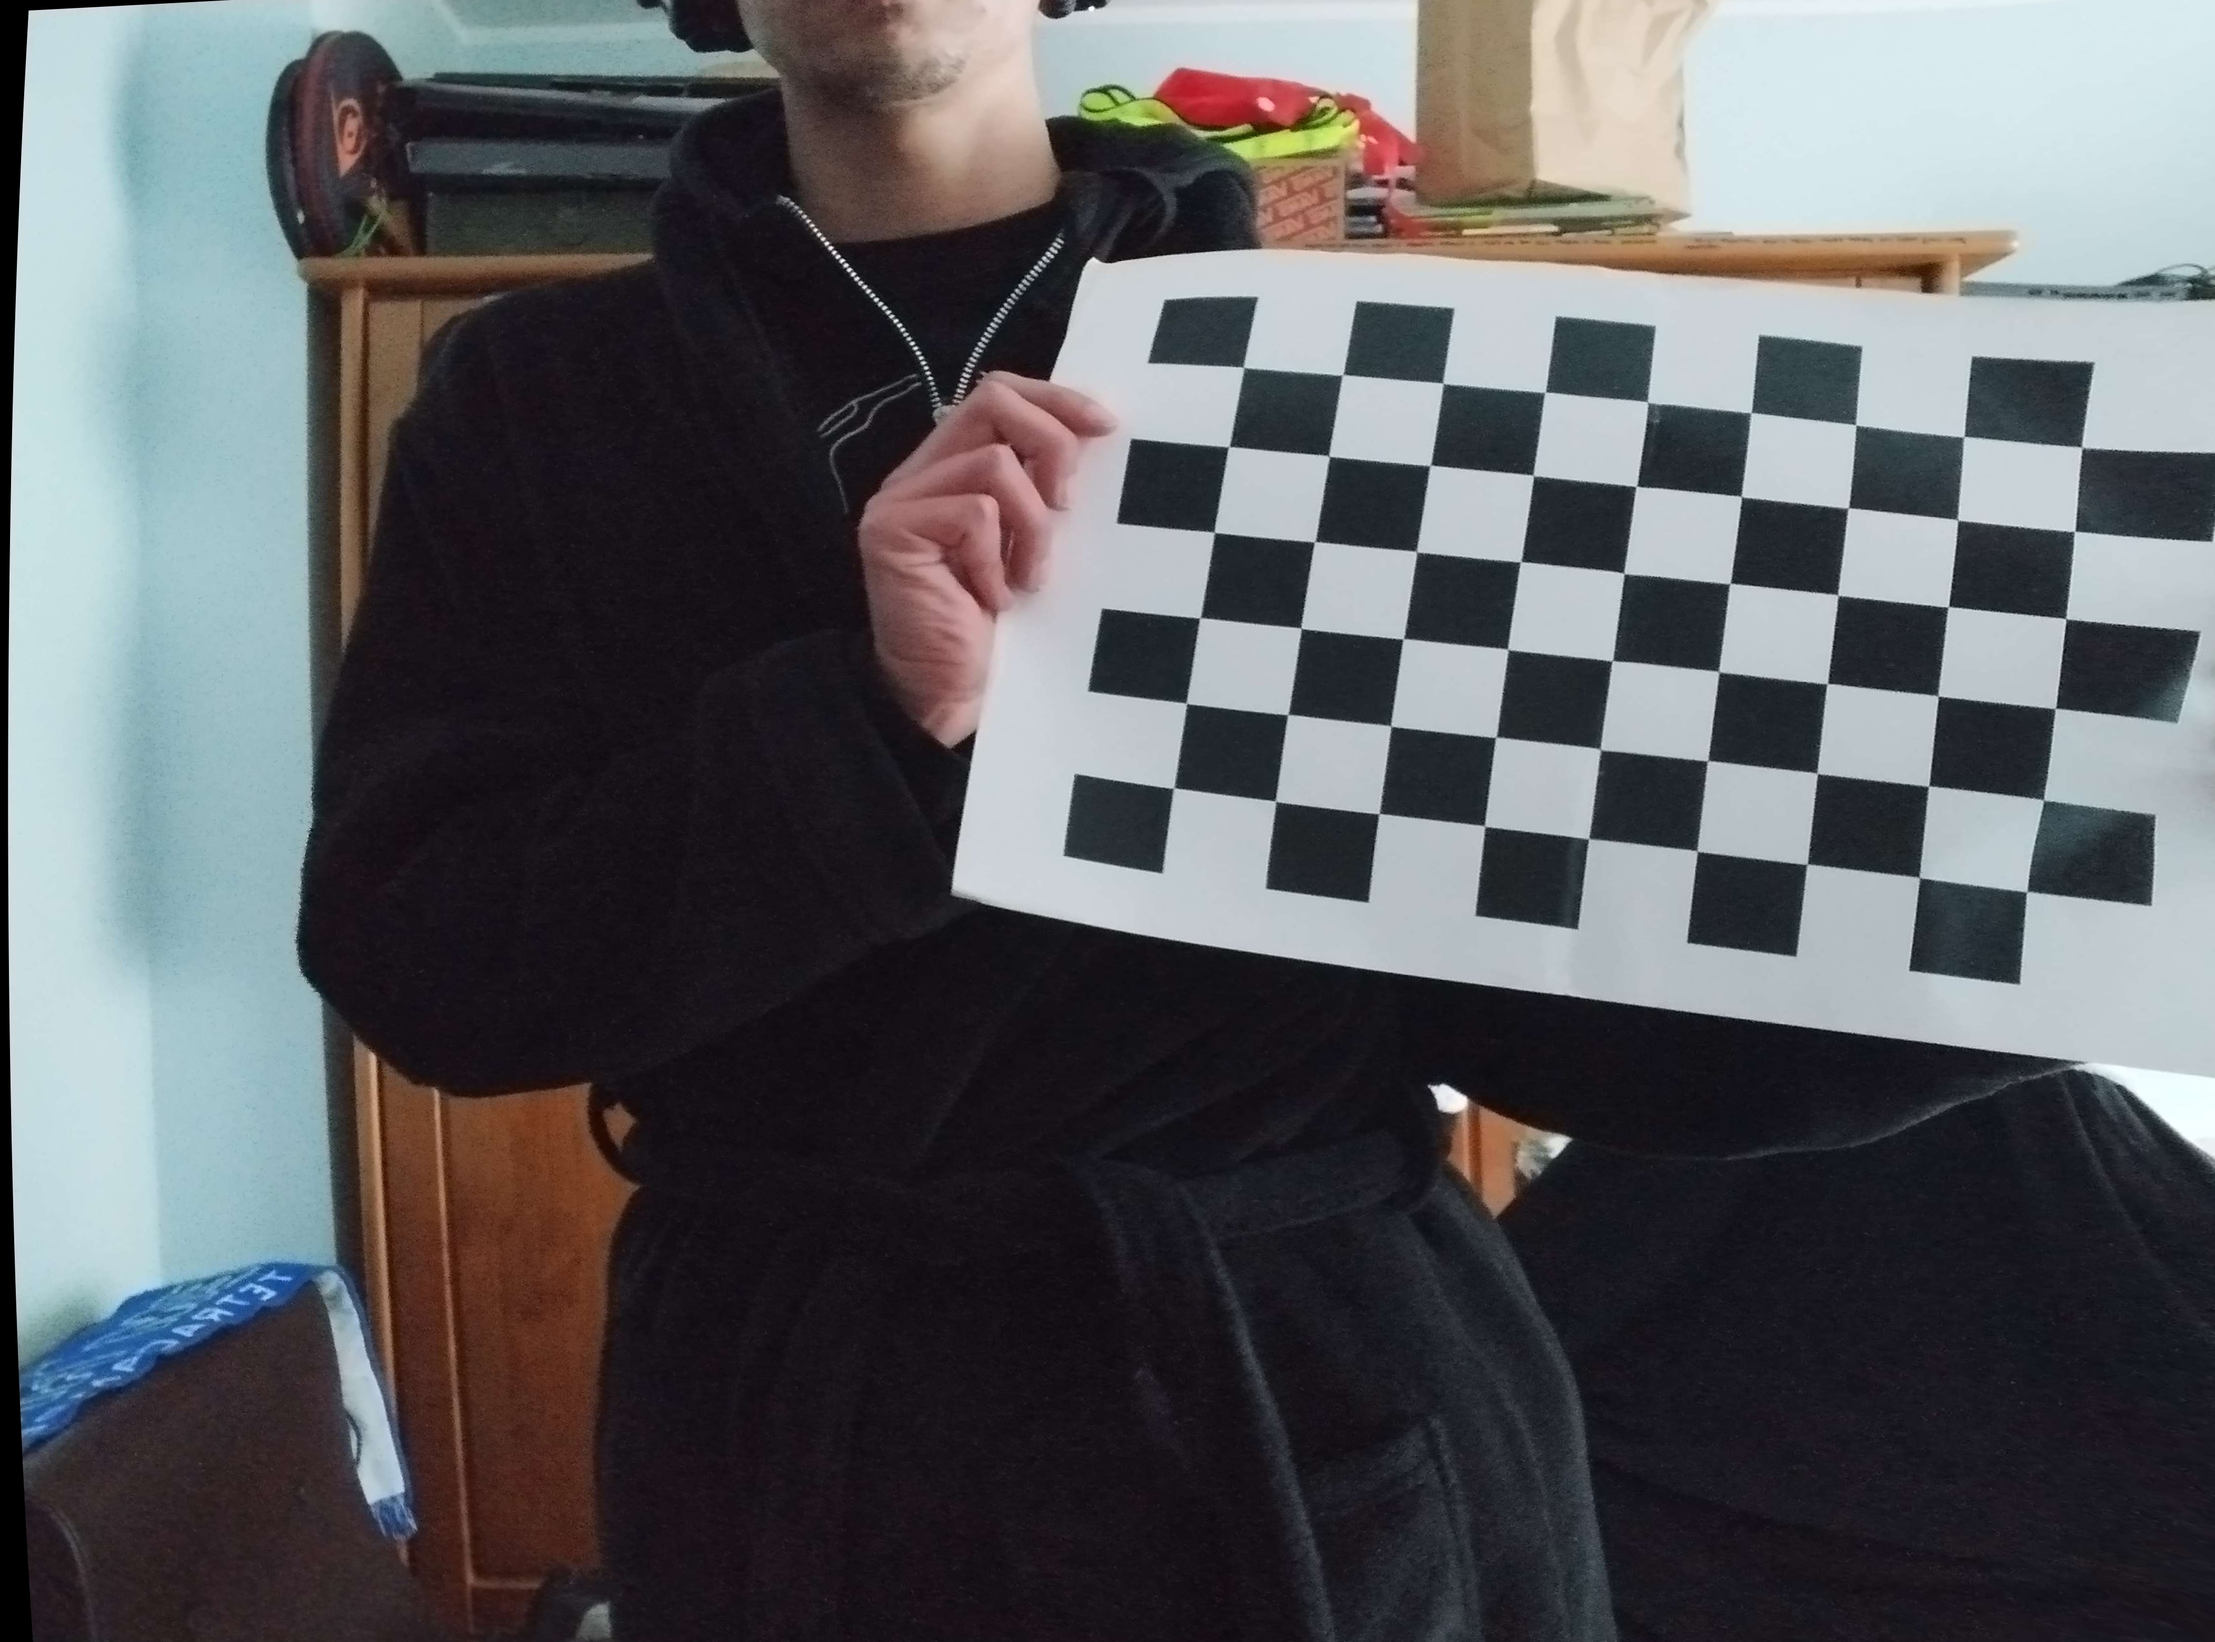
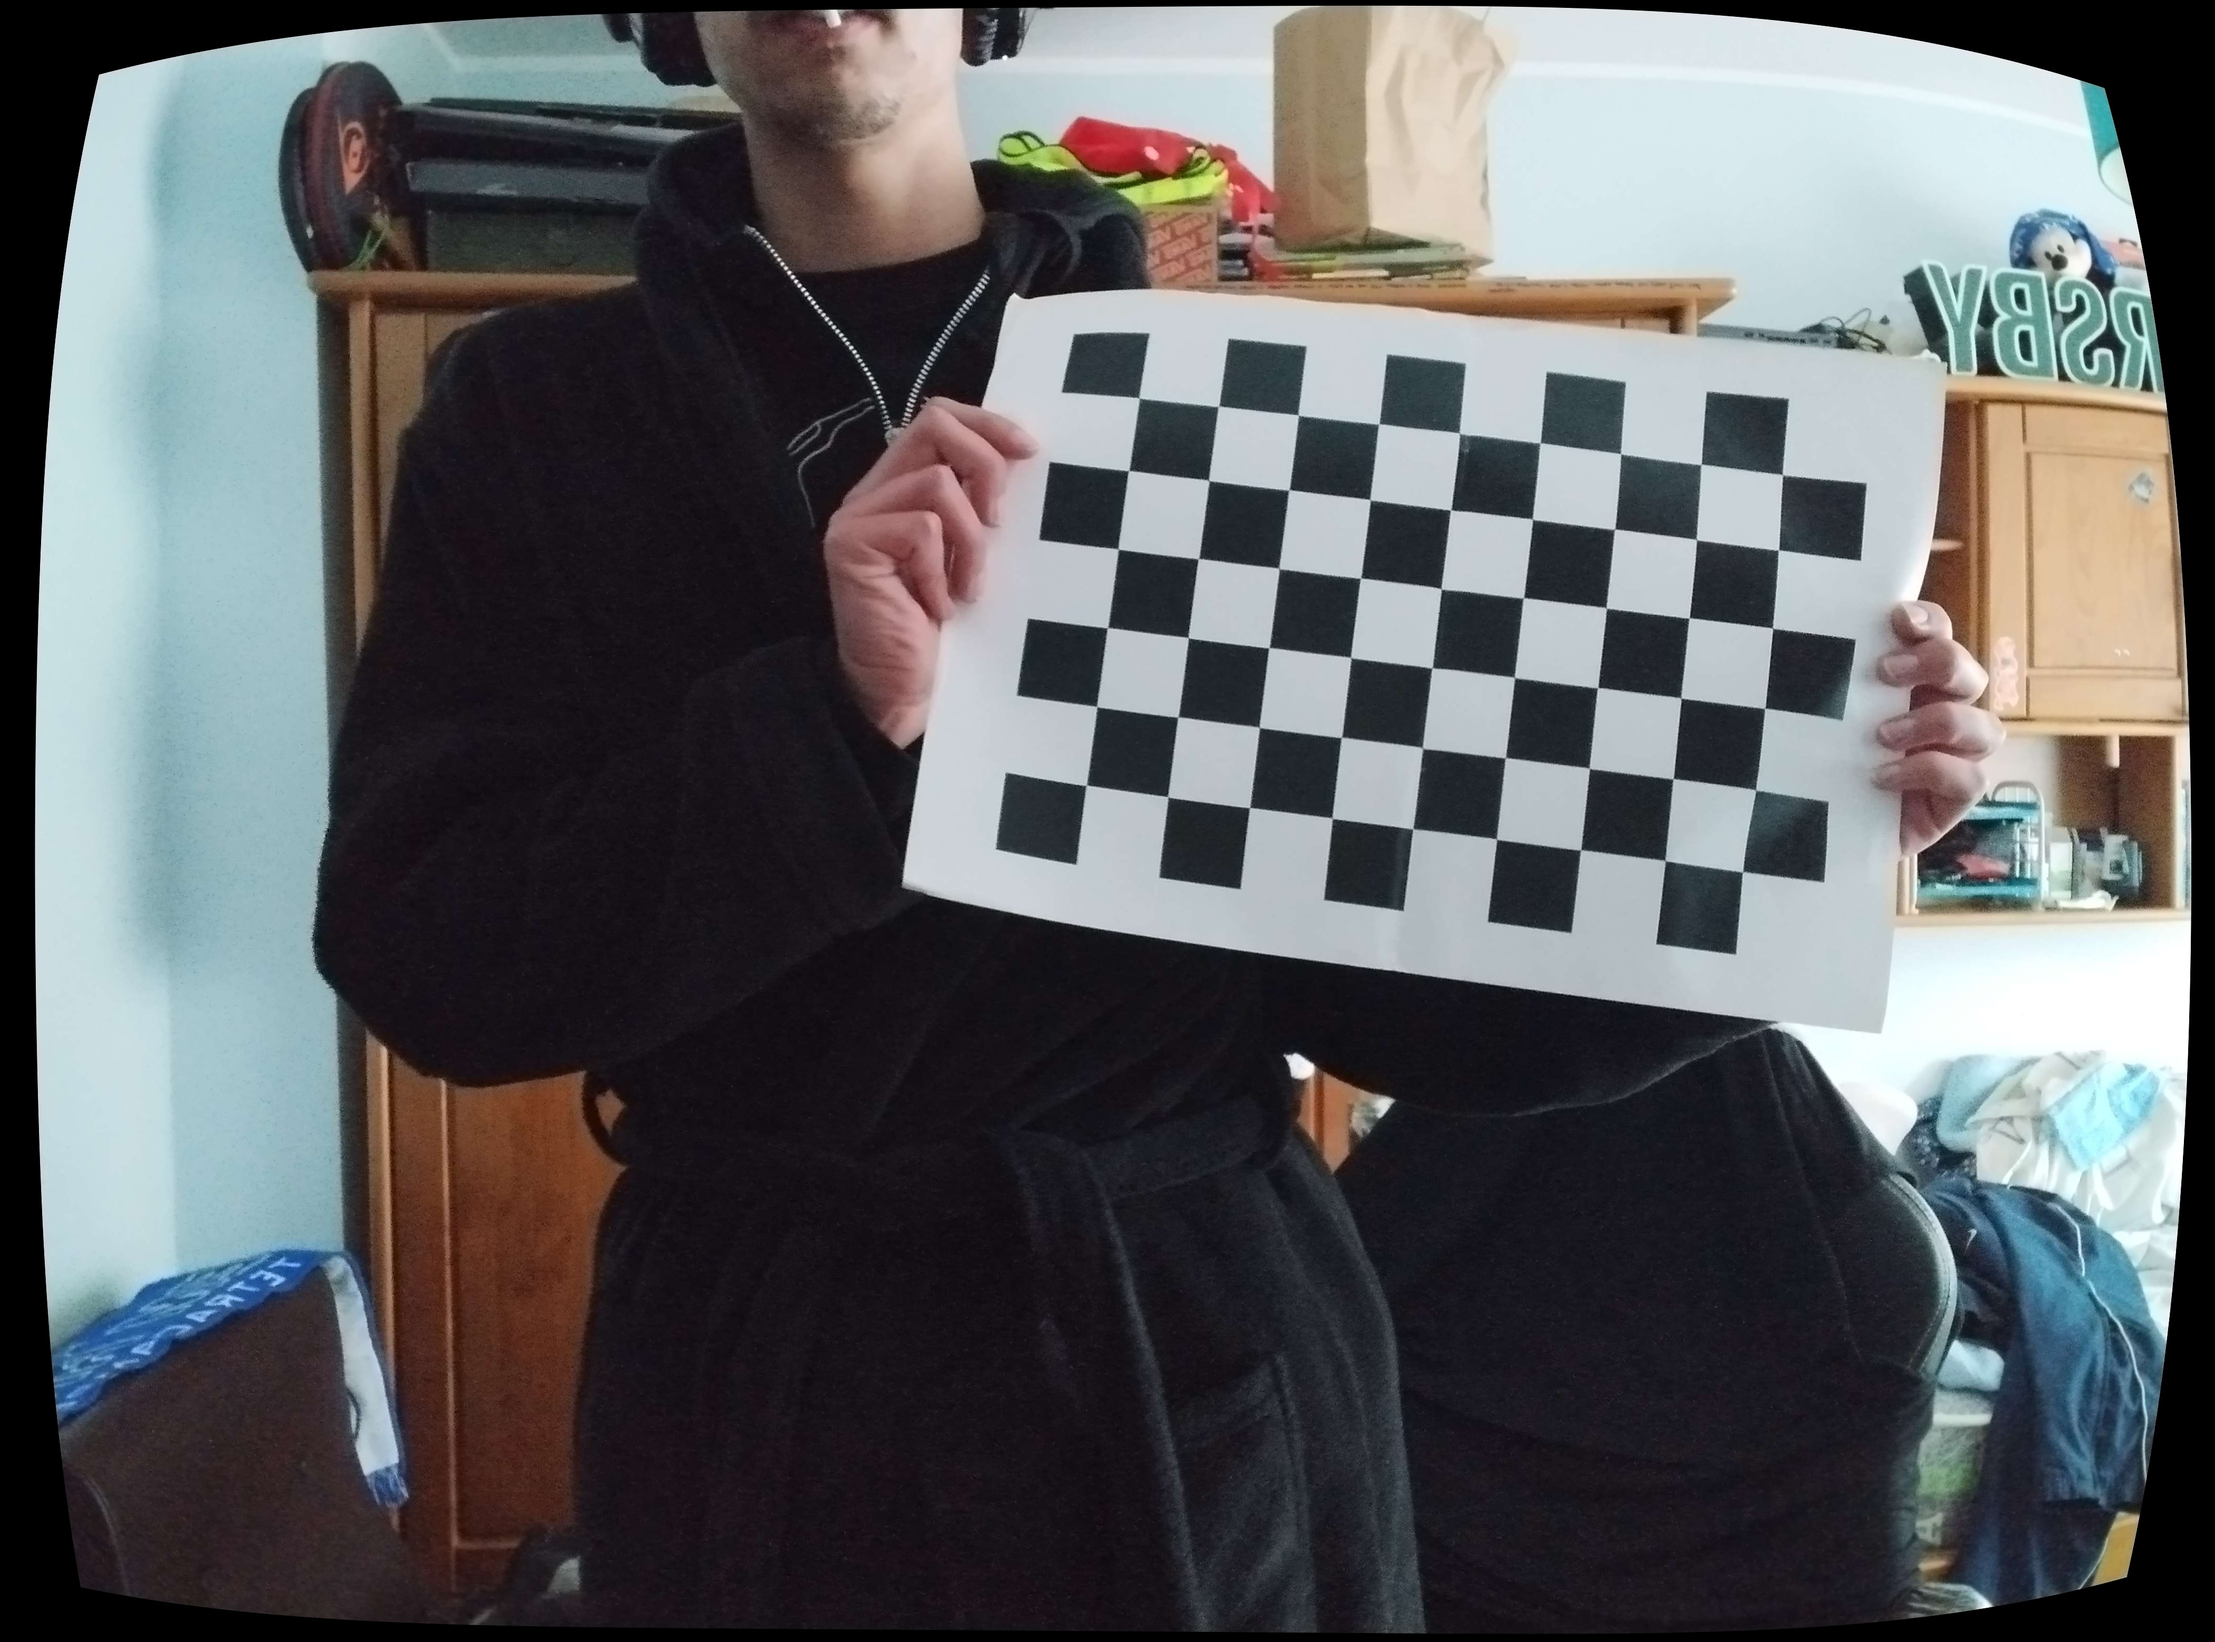
Guarda o frame, com zoom, calibra o frame em live calibration Loading funciona (necessário rever para muitas imagens) Novos controlos de erros.

diff --git a/calibracaodecamaras.h b/calibracaodecamaras.h
@@ -148,6 +148,7 @@ public:
     QSlider* zoom;
     QPushButton* paracamara;
     QPushButton* gridbutton;
+	QPushButton* saveframe;
     QComboBox* combocamaras;
     
     QVideoWidget* videoWidget;
@@ -162,6 +163,7 @@ private slots:
     void selectcamera(int index);
     void on_zoom_valueChanged();
     void on_paracamara_clicked();
+	void on_saveframe_clicked();
     float livecalibration();
     void undistcamera();
 
